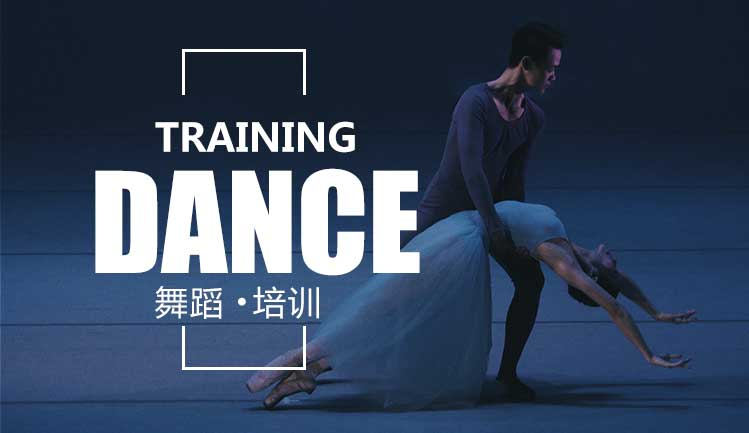
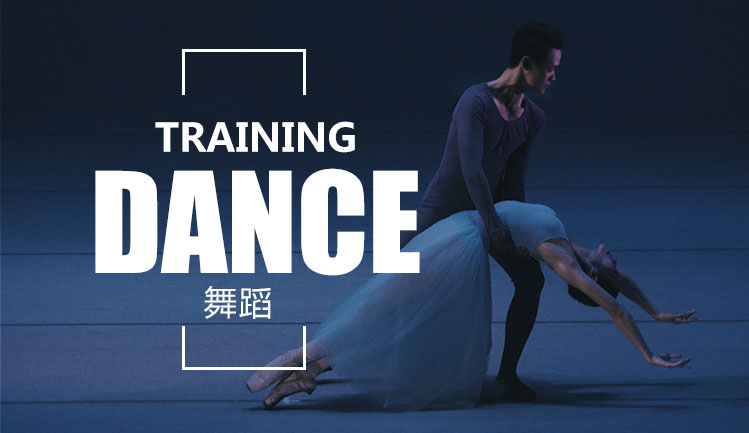
[ 2018.11.01 ]

Changed region(s): [[0.1842, 0.6605, 0.4299, 0.7506]]

diff --git a/pages/index.vue b/pages/index.vue
@@ -15,6 +15,9 @@
     <section class="environment">
       <ColumnContainer :banner="environment" title="校区地址" />
     </section>
+    <section>
+      {{ news }}
+    </section>
   </main>
 </template>
 
@@ -24,7 +27,7 @@ import SummaryNew from '~/components/summaryNew';
 import IndexNav from '~/components/indexNav';
 import HotClass from '~/components/hotClass';
 import ColumnContainer from '~/components/public/columnContainer';
-import { api_banner, api_index_hot, api_index_environment } from '../ApiManage/index';
+import { api_banner, api_index_hot, api_index_environment, api_new_top } from '../ApiManage/index';
 import qs from 'qs';
 
 export default {
@@ -49,6 +52,12 @@ export default {
 				isBtn: true,
 				infos: this.$store.state.options.indexEnvironment,
 			},
+		};
+	},
+	async asyncData({ app }) {
+		const { data } = await app.$axios.get(`${api_new_top()}&num=3`);
+		return {
+			news: data.data,
 		};
 	},
 };

diff --git a/pages/about.vue b/pages/about.vue
@@ -8,7 +8,7 @@
 				<ColumnTop title="艺启学简介" />
 				<div class="company_summary_main">
 					<div class="company_summary_main_text">
-						<p>“艺启学艺术教育”创立于2017年五月份，专注于少儿和成人的艺术教育，主设声乐、吉他、尤克里里、钢琴、播音主持、中国舞、芭蕾、爵士和拉丁等。</p>
+						<p>“北京艺启学文化传播有限公司”创立于2017年五月份，专注于少儿和成人的艺术教育，主设声乐、吉他、尤克里里、钢琴、播音主持、中国舞、芭蕾、爵士和拉丁等。</p>
 						<p>2018年艺启学开设线上学习平台，进阶式视频教程，VIP视频一对一学习，直播课堂，学员电子学习档案等。艺启学坚持专业的态度，注重高品质教学，立体式无缝隙帮助学员学习，让每一个学员学有所成。</p>
 					</div>
 					<div class="company_summary_main_img">

diff --git a/pages/instrumental/index.vue b/pages/instrumental/index.vue
@@ -28,7 +28,7 @@ import ColumnTop from '~/components/public/columnTop';
 import Splendid from '~/components/public/splendid';
 export default {
 	head: {
-		title: '器乐培训',
+		title: '器乐',
 	},
 	data() {
 		return {
@@ -38,17 +38,17 @@ export default {
 			course: [
 				{
 					src: require('~/assets/images/instrumental/course_list01.jpg'),
-					text: '钢琴·培训',
+					text: '钢琴',
 					name: 'instrumental-piano',
 				},
 				{
 					src: require('~/assets/images/instrumental/course_list02.jpg'),
-					text: '吉他·培训',
+					text: '吉他',
 					name: 'instrumental-guitar',
 				},
 				{
 					src: require('~/assets/images/instrumental/course_list03.jpg'),
-					text: '尤克里里·培训',
+					text: '尤克里里',
 					name: 'instrumental-ukulele',
 				},
 			],

diff --git a/components/summaryNew.vue b/components/summaryNew.vue
@@ -7,7 +7,8 @@
       <ul class="scroll-content" :style="{ 'transform': 'translateY('+ top +')' }">
         <li v-for="item in newslist" :key="item.key">
           <i></i>
-          <nuxt-link :to="{ name: item.name, query: { id: item.id } }">{{ item.title }}</nuxt-link>
+          <!-- <nuxt-link :to="{ name: item.name, query: { id: item.id } }">{{ item.title }}</nuxt-link> -->
+          <a :href="`/news/id?id=${item.id}`">{{ item.title }}</a>
           <span>{{ item.date }}</span>
         </li>
       </ul>

diff --git a/store/index.js b/store/index.js
@@ -35,8 +35,9 @@ export const actions = {
     })
   },
   // 获取首页四巨头
+  // 2 3 4 5
   LoadIndexNav({ commit }) {
-    return this.$axios.post(api_nav(), qs.stringify({ str: '2,3,4,5' })).then(response => {
+    return this.$axios.post(api_nav(), qs.stringify({ str: '2' })).then(response => {
       commit('options/SUCCESS_DATA_INDEX_NAV', getResData(response))
     })
   },

diff --git a/static/NewsPage/index.html b/static/NewsPage/index.html
@@ -1,0 +1,15 @@
+<!DOCTYPE html>
+<html lang="en">
+
+<head>
+  <meta charset="UTF-8">
+  <meta name="viewport" content="width=device-width, initial-scale=1.0">
+  <meta http-equiv="X-UA-Compatible" content="ie=edge">
+  <title>Document</title>
+</head>
+
+<body>
+  这是一个静态页
+</body>
+
+</html>

diff --git a/layouts/error.vue b/layouts/error.vue
@@ -8,7 +8,6 @@
         <button class="btn" @click="backIndex">返回首页</button>
       </div>
     </template>
-    {{ error }}
   </div>
 </template>
 <script>
